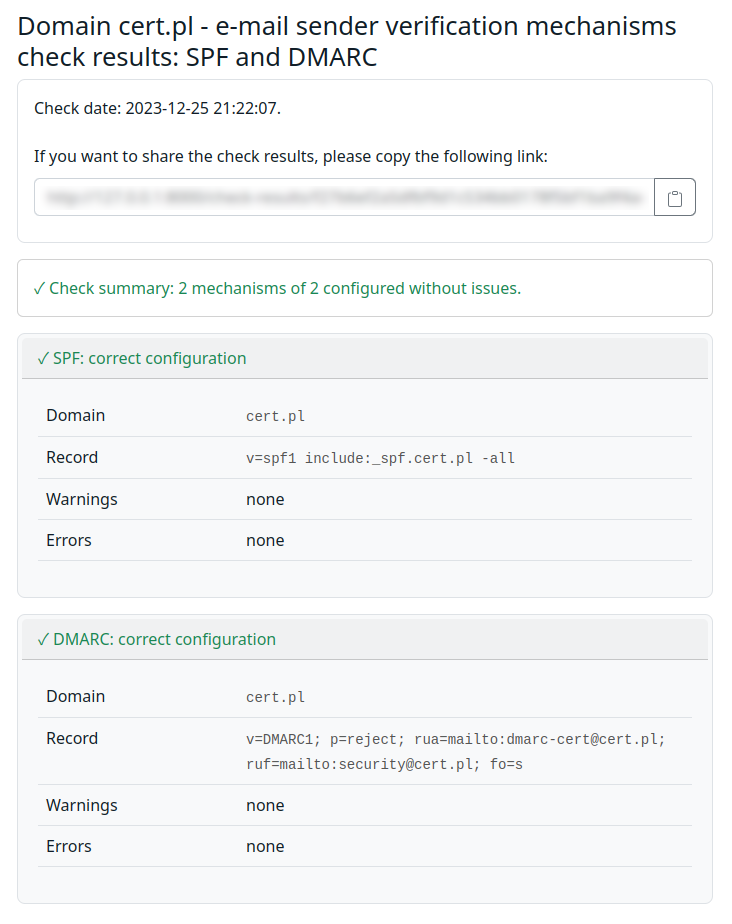
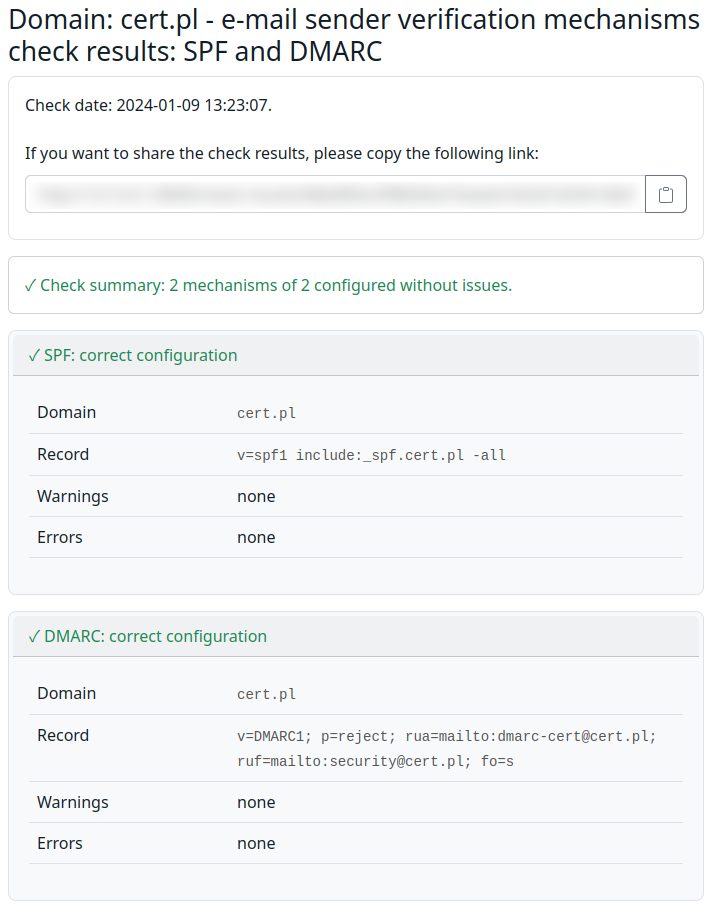
grammar fix (#18)

diff --git a/app/templates/check_results.html b/app/templates/check_results.html
@@ -71,11 +71,11 @@
                 <h3>
                     {% if not envelope_domain or not from_domain or from_domain == envelope_domain %}
                         {% if not envelope_domain %}
-                            {% trans %}Domain{% endtrans %} {{ from_domain }}
+                            {% trans %}Domain{% endtrans %}: {{ from_domain }}
                         {% elif not from_domain %}
-                            {% trans %}Domain{% endtrans %} {{ envelope_domain }}
+                            {% trans %}Domain{% endtrans %}: {{ envelope_domain }}
                         {% elif from_domain == envelope_domain %}
-                            {% trans %}Domain{% endtrans %} {{ envelope_domain }}
+                            {% trans %}Domain{% endtrans %}: {{ envelope_domain }}
                         {% endif %}
                         -
                         {% trans %}e-mail sender verification mechanisms check results:{% endtrans %}
